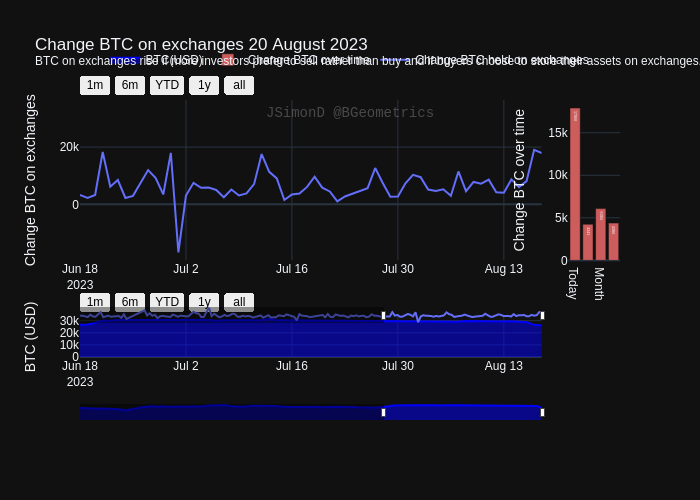
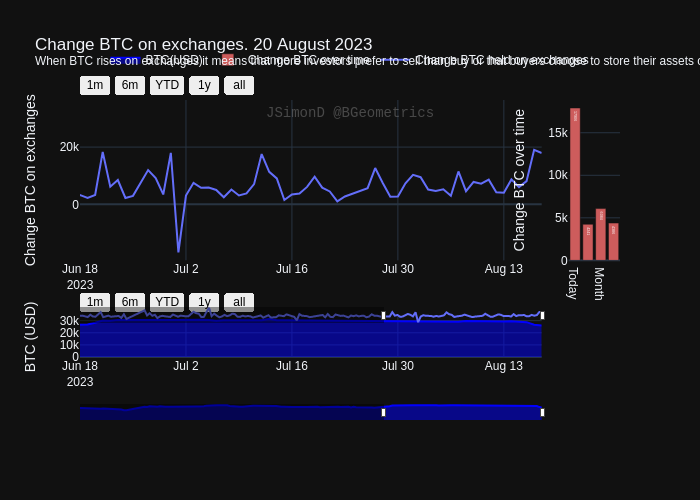
daily

Changed region(s): [[0.06, 0.06, 1.0, 0.15]]

diff --git a/reports/bitcoin_ex_change_held_g.html b/reports/bitcoin_ex_change_held_g.html
@@ -1,2 +1,2 @@
 <div>                        <script type="text/javascript">window.PlotlyConfig = {MathJaxConfig: 'local'};</script>
-        <script charset="utf-8" src="https://cdn.plot.ly/plotly-2.24.1.min.js"></script>                <div id="1b87324e-4afe-4bcd-ad03-5c2428e09499" class="plotly-graph-div" style="height:100%; width:100%;"></div>            <script type="text/javascript">                                    window.PLOTLYENV=window.PLOTLYENV || {};                                    if (document.getElementById("1b87324e-4afe-4bcd-ad03-5c2428e09499")) {                    Plotly.newPlot(                        "1b87324e-4afe-4bcd-ad03-5c2428e09499",                        [{"mode":"lines","name":"Change BTC held on exchanges","x":["2023-02-20","2023-02-21","2023-02-22","2023-02-23","2023-02-24","2023-02-25","2023-02-26","2023-02-27","2023-02-28","2023-03-01","2023-03-02","2023-03-03","2023-03-04","2023-03-05","2023-03-06","2023-03-07","2023-03-08","2023-03-09","2023-03-10","2023-03-17","2023-03-18","2023-03-19","2023-03-20","2023-03-21","2023-03-22","2023-03-23","2023-03-24","2023-03-25","2023-03-27","2023-03-28","2023-03-29","2023-03-30","2023-03-31","2023-04-01","2023-04-02","2023-04-03","2023-04-04","2023-04-05","2023-04-06","2023-04-07","2023-04-08","2023-04-09","2023-04-10","2023-04-11","2023-04-12","2023-04-13","2023-04-14","2023-04-15","2023-04-16","2023-04-17","2023-04-18","2023-04-19","2023-04-20","2023-04-21","2023-04-22","2023-04-23","2023-04-24","2023-04-25","2023-04-26","2023-04-27","2023-04-28","2023-04-29","2023-04-30","2023-05-01","2023-05-02","2023-05-03","2023-05-04","2023-05-05","2023-05-06","2023-05-07","2023-05-08","2023-05-09","2023-05-10","2023-05-11","2023-05-12","2023-05-13","2023-05-14","2023-05-15","2023-05-16","2023-05-17","2023-05-18","2023-05-19","2023-05-20","2023-05-21","2023-05-22","2023-05-23","2023-05-24","2023-05-25","2023-05-26","2023-05-27","2023-05-28","2023-05-29","2023-05-30","2023-05-31","2023-06-01","2023-06-02","2023-06-03","2023-06-04","2023-06-05","2023-06-06","2023-06-07","2023-06-08","2023-06-09","2023-06-10","2023-06-11","2023-06-12","2023-06-13","2023-06-14","2023-06-15","2023-06-16","2023-06-17","2023-06-18","2023-06-19","2023-06-20","2023-06-21","2023-06-22","2023-06-23","2023-06-24","2023-06-25","2023-06-26","2023-06-27","2023-06-28","2023-06-29","2023-06-30","2023-07-01","2023-07-02","2023-07-03","2023-07-04","2023-07-05","2023-07-06","2023-07-07","2023-07-08","2023-07-09","2023-07-10","2023-07-11","2023-07-12","2023-07-13","2023-07-14","2023-07-15","2023-07-16","2023-07-17","2023-07-18","2023-07-19","2023-07-20","2023-07-21","2023-07-22","2023-07-23","2023-07-26","2023-07-27","2023-07-28","2023-07-29","2023-07-30","2023-07-31","2023-08-01","2023-08-02","2023-08-03","2023-08-04","2023-08-05","2023-08-06","2023-08-07","2023-08-08","2023-08-09","2023-08-10","2023-08-11","2023-08-12","2023-08-13","2023-08-14","2023-08-15","2023-08-16","2023-08-17","2023-08-18"],"y":[5722,6270,3678,1191,9278,3140,2488,9933,18496,911,3222,6138,2284,4274,4302,4739,-1738,10979,-5412,24616,7012,14682,5628,9233,-2466,3772,5538,3812,1691,10042,4944,2303,6298,4383,3750,3758,13056,19636,14679,13132,1176,1925,18903,33641,4471,13088,6092,397,3604,8847,4406,7050,13028,11785,2746,1885,6012,3461,4828,4050,-483,1438,3326,6828,-787,2696,7541,-470,1444,901,7251,5849,4300,10582,7004,3240,1962,-10130,11378,6062,5989,4386,794,2156,4220,4142,7072,8436,449,11906,1941,906,10122,7111,5253,6405,3419,153,6607,4322,7146,3627,5376,5407,705,2944,10752,6174,6183,2463,1537,3260,2264,3255,18305,6183,8499,2217,2958,7362,11979,9200,3455,17972,-16766,3074,7505,5771,5839,5032,2454,5183,3117,3821,7059,17575,11353,9062,1524,3457,3766,6084,9663,5837,4511,1057,2735,5647,12674,7455,2624,2740,7363,10279,9471,5177,4633,5263,2965,11480,4582,7809,7237,8622,4241,4050,8706,6024,8109,19037,17906],"type":"scatter","xaxis":"x","yaxis":"y"},{"marker":{"color":"indianred"},"name":"Change BTC over time","text":["17906","4241","6084","4386"],"x":["Today","Week","Month","3 months","6 months"],"y":[17906,4241,6084,4386],"type":"bar","xaxis":"x2","yaxis":"y2"},{"fill":"tonexty","marker":{"color":"blue"},"mode":"lines","name":"BTC(USD)","x":["2023-02-20","2023-02-21","2023-02-22","2023-02-23","2023-02-24","2023-02-25","2023-02-26","2023-02-27","2023-02-28","2023-03-01","2023-03-02","2023-03-03","2023-03-04","2023-03-05","2023-03-06","2023-03-07","2023-03-08","2023-03-09","2023-03-10","2023-03-17","2023-03-18","2023-03-19","2023-03-20","2023-03-21","2023-03-22","2023-03-23","2023-03-24","2023-03-25","2023-03-27","2023-03-28","2023-03-29","2023-03-30","2023-03-31","2023-04-01","2023-04-02","2023-04-03","2023-04-04","2023-04-05","2023-04-06","2023-04-07","2023-04-08","2023-04-09","2023-04-10","2023-04-11","2023-04-12","2023-04-13","2023-04-14","2023-04-15","2023-04-16","2023-04-17","2023-04-18","2023-04-19","2023-04-20","2023-04-21","2023-04-22","2023-04-23","2023-04-24","2023-04-25","2023-04-26","2023-04-27","2023-04-28","2023-04-29","2023-04-30","2023-05-01","2023-05-02","2023-05-03","2023-05-04","2023-05-05","2023-05-06","2023-05-07","2023-05-08","2023-05-09","2023-05-10","2023-05-11","2023-05-12","2023-05-13","2023-05-14","2023-05-15","2023-05-16","2023-05-17","2023-05-18","2023-05-19","2023-05-20","2023-05-21","2023-05-22","2023-05-23","2023-05-24","2023-05-25","2023-05-26","2023-05-27","2023-05-28","2023-05-29","2023-05-30","2023-05-31","2023-06-01","2023-06-02","2023-06-03","2023-06-04","2023-06-05","2023-06-06","2023-06-07","2023-06-08","2023-06-09","2023-06-10","2023-06-11","2023-06-12","2023-06-13","2023-06-14","2023-06-15","2023-06-16","2023-06-17","2023-06-18","2023-06-19","2023-06-20","2023-06-21","2023-06-22","2023-06-23","2023-06-24","2023-06-25","2023-06-26","2023-06-27","2023-06-28","2023-06-29","2023-06-30","2023-07-01","2023-07-02","2023-07-03","2023-07-04","2023-07-05","2023-07-06","2023-07-07","2023-07-08","2023-07-09","2023-07-10","2023-07-11","2023-07-12","2023-07-13","2023-07-14","2023-07-15","2023-07-16","2023-07-17","2023-07-18","2023-07-19","2023-07-20","2023-07-21","2023-07-22","2023-07-23","2023-07-26","2023-07-27","2023-07-28","2023-07-29","2023-07-30","2023-07-31","2023-08-01","2023-08-02","2023-08-03","2023-08-04","2023-08-05","2023-08-06","2023-08-07","2023-08-08","2023-08-09","2023-08-10","2023-08-11","2023-08-12","2023-08-13","2023-08-14","2023-08-15","2023-08-16","2023-08-17","2023-08-18"],"y":[24797.8430359439,24400.3893898305,24163.7389812975,23910.0342104033,23175.8242036821,23159.8154403857,23542.0964281122,23504.1894178843,23145.9491277031,23610.6590902981,23470.0254815897,22350.0962340736,22334.2852638808,22419.8171390999,22414.7033056692,22174.6484725307,21701.3846227352,20349.8141732905,19951.37,27450.6282933957,26985.7359915254,28185.2043319696,27834.3361090006,28172.7950558153,27341.5571297487,28387.8897495617,27464.1249453536,27518.62,27154.9963702513,27283.9634029807,28389.2917784921,28021.5583009936,28514.6813062537,28494.5638863238,28161.9980362361,27850.9799436002,28113.9585187025,28190.3116063705,28049.0744763296,27936.8042609585,27964.0512498539,28357.8072703098,29687.5651846873,30247.0959193454,29913.0035463472,30370.82207218,30458.9700414962,30342.0591084161,30312.9308533022,29469.5050727645,30366.8723813559,28796.7440952659,28251.2763790181,27292.0211052016,27827.5475920514,27604.6855742256,27520.1996729982,28302.6942180012,28384.2340333139,29465.5514272355,29350.811886616,29221.5145075979,29362.0867974868,28114.9531873174,28690.5809959088,29045.0427735243,28855.8574465225,29552.9695236704,28899.4629602572,28761.738434249,27727.2854091175,27642.4281092928,27646.004902104,26986.271065751,26773.3443591467,26841.3982913501,26918.261597896,27231.6216052016,27025.7181864407,27401.0440610754,26843.2350938048,26889.503631502,27100.8582878434,26777.0977831677,26858.7370637054,27226.8558763881,26341.4306446522,26484.8359234366,26720.3838071303,26854.5403702513,28097.5211259497,27765.0728693746,27712.4915844535,27217.6832580362,26825.3713451198,27255.2279941555,27079.4084643483,27158.25456955,25785.8514842198,27213.7705187025,26339.5790292227,26521.693600526,26470.6775780245,25863.2138506721,25906.8281516657,25906.7519354179,25880.8599734074,25097.5853796026,25559.1433293396,26331.8200943892,26514.1713495032,26353.962682934,26778.0634415547,28305.4204573349,30099.5153509643,29952.5112866745,30638.3537644652,30549.0162872589,30467.4403705435,30255.8861241964,30656.2,30104.0432717709,30460.792978083,30484.503257744,30581.6889655172,30594.2164736996,31135.3575993571,30799.9474558738,30497.8221282876,29979.7298094681,30329.8829786674,30263.6196341321,30163.2210563998,30394.6555806546,30616.247094097,30385.6087852133,31434.7354704851,30310.6720204559,30290.8905958504,30249.7729658095,30143.7462744009,29835.7474076563,29913.0294646406,29805.6065707189,29919.6934921099,29726.0096271186,29882.43,29361.5917580362,29201.6865175336,29316.3130751023,29360.376179135,29262.8367337814,29219.8201887785,29499.5875385739,29143.1519620105,29192.3448617767,29057.2532437171,29053.0956975453,29048.0433275862,29164.3585873758,29779.511383986,29582.9442375804,29430.1599117475,29399.784739626,29415.733902104,29286.1176110462,29408.9717127411,29167.59721654,28754.2924079486,26660.5627264757,26037.3658474576],"type":"scatter","xaxis":"x3","yaxis":"y3"}],                        {"template":{"data":{"barpolar":[{"marker":{"line":{"color":"rgb(17,17,17)","width":0.5},"pattern":{"fillmode":"overlay","size":10,"solidity":0.2}},"type":"barpolar"}],"bar":[{"error_x":{"color":"#f2f5fa"},"error_y":{"color":"#f2f5fa"},"marker":{"line":{"color":"rgb(17,17,17)","width":0.5},"pattern":{"fillmode":"overlay","size":10,"solidity":0.2}},"type":"bar"}],"carpet":[{"aaxis":{"endlinecolor":"#A2B1C6","gridcolor":"#506784","linecolor":"#506784","minorgridcolor":"#506784","startlinecolor":"#A2B1C6"},"baxis":{"endlinecolor":"#A2B1C6","gridcolor":"#506784","linecolor":"#506784","minorgridcolor":"#506784","startlinecolor":"#A2B1C6"},"type":"carpet"}],"choropleth":[{"colorbar":{"outlinewidth":0,"ticks":""},"type":"choropleth"}],"contourcarpet":[{"colorbar":{"outlinewidth":0,"ticks":""},"type":"contourcarpet"}],"contour":[{"colorbar":{"outlinewidth":0,"ticks":""},"colorscale":[[0.0,"#0d0887"],[0.1111111111111111,"#46039f"],[0.2222222222222222,"#7201a8"],[0.3333333333333333,"#9c179e"],[0.4444444444444444,"#bd3786"],[0.5555555555555556,"#d8576b"],[0.6666666666666666,"#ed7953"],[0.7777777777777778,"#fb9f3a"],[0.8888888888888888,"#fdca26"],[1.0,"#f0f921"]],"type":"contour"}],"heatmapgl":[{"colorbar":{"outlinewidth":0,"ticks":""},"colorscale":[[0.0,"#0d0887"],[0.1111111111111111,"#46039f"],[0.2222222222222222,"#7201a8"],[0.3333333333333333,"#9c179e"],[0.4444444444444444,"#bd3786"],[0.5555555555555556,"#d8576b"],[0.6666666666666666,"#ed7953"],[0.7777777777777778,"#fb9f3a"],[0.8888888888888888,"#fdca26"],[1.0,"#f0f921"]],"type":"heatmapgl"}],"heatmap":[{"colorbar":{"outlinewidth":0,"ticks":""},"colorscale":[[0.0,"#0d0887"],[0.1111111111111111,"#46039f"],[0.2222222222222222,"#7201a8"],[0.3333333333333333,"#9c179e"],[0.4444444444444444,"#bd3786"],[0.5555555555555556,"#d8576b"],[0.6666666666666666,"#ed7953"],[0.7777777777777778,"#fb9f3a"],[0.8888888888888888,"#fdca26"],[1.0,"#f0f921"]],"type":"heatmap"}],"histogram2dcontour":[{"colorbar":{"outlinewidth":0,"ticks":""},"colorscale":[[0.0,"#0d0887"],[0.1111111111111111,"#46039f"],[0.2222222222222222,"#7201a8"],[0.3333333333333333,"#9c179e"],[0.4444444444444444,"#bd3786"],[0.5555555555555556,"#d8576b"],[0.6666666666666666,"#ed7953"],[0.7777777777777778,"#fb9f3a"],[0.8888888888888888,"#fdca26"],[1.0,"#f0f921"]],"type":"histogram2dcontour"}],"histogram2d":[{"colorbar":{"outlinewidth":0,"ticks":""},"colorscale":[[0.0,"#0d0887"],[0.1111111111111111,"#46039f"],[0.2222222222222222,"#7201a8"],[0.3333333333333333,"#9c179e"],[0.4444444444444444,"#bd3786"],[0.5555555555555556,"#d8576b"],[0.6666666666666666,"#ed7953"],[0.7777777777777778,"#fb9f3a"],[0.8888888888888888,"#fdca26"],[1.0,"#f0f921"]],"type":"histogram2d"}],"histogram":[{"marker":{"pattern":{"fillmode":"overlay","size":10,"solidity":0.2}},"type":"histogram"}],"mesh3d":[{"colorbar":{"outlinewidth":0,"ticks":""},"type":"mesh3d"}],"parcoords":[{"line":{"colorbar":{"outlinewidth":0,"ticks":""}},"type":"parcoords"}],"pie":[{"automargin":true,"type":"pie"}],"scatter3d":[{"line":{"colorbar":{"outlinewidth":0,"ticks":""}},"marker":{"colorbar":{"outlinewidth":0,"ticks":""}},"type":"scatter3d"}],"scattercarpet":[{"marker":{"colorbar":{"outlinewidth":0,"ticks":""}},"type":"scattercarpet"}],"scattergeo":[{"marker":{"colorbar":{"outlinewidth":0,"ticks":""}},"type":"scattergeo"}],"scattergl":[{"marker":{"line":{"color":"#283442"}},"type":"scattergl"}],"scattermapbox":[{"marker":{"colorbar":{"outlinewidth":0,"ticks":""}},"type":"scattermapbox"}],"scatterpolargl":[{"marker":{"colorbar":{"outlinewidth":0,"ticks":""}},"type":"scatterpolargl"}],"scatterpolar":[{"marker":{"colorbar":{"outlinewidth":0,"ticks":""}},"type":"scatterpolar"}],"scatter":[{"marker":{"line":{"color":"#283442"}},"type":"scatter"}],"scatterternary":[{"marker":{"colorbar":{"outlinewidth":0,"ticks":""}},"type":"scatterternary"}],"surface":[{"colorbar":{"outlinewidth":0,"ticks":""},"colorscale":[[0.0,"#0d0887"],[0.1111111111111111,"#46039f"],[0.2222222222222222,"#7201a8"],[0.3333333333333333,"#9c179e"],[0.4444444444444444,"#bd3786"],[0.5555555555555556,"#d8576b"],[0.6666666666666666,"#ed7953"],[0.7777777777777778,"#fb9f3a"],[0.8888888888888888,"#fdca26"],[1.0,"#f0f921"]],"type":"surface"}],"table":[{"cells":{"fill":{"color":"#506784"},"line":{"color":"rgb(17,17,17)"}},"header":{"fill":{"color":"#2a3f5f"},"line":{"color":"rgb(17,17,17)"}},"type":"table"}]},"layout":{"annotationdefaults":{"arrowcolor":"#f2f5fa","arrowhead":0,"arrowwidth":1},"autotypenumbers":"strict","coloraxis":{"colorbar":{"outlinewidth":0,"ticks":""}},"colorscale":{"diverging":[[0,"#8e0152"],[0.1,"#c51b7d"],[0.2,"#de77ae"],[0.3,"#f1b6da"],[0.4,"#fde0ef"],[0.5,"#f7f7f7"],[0.6,"#e6f5d0"],[0.7,"#b8e186"],[0.8,"#7fbc41"],[0.9,"#4d9221"],[1,"#276419"]],"sequential":[[0.0,"#0d0887"],[0.1111111111111111,"#46039f"],[0.2222222222222222,"#7201a8"],[0.3333333333333333,"#9c179e"],[0.4444444444444444,"#bd3786"],[0.5555555555555556,"#d8576b"],[0.6666666666666666,"#ed7953"],[0.7777777777777778,"#fb9f3a"],[0.8888888888888888,"#fdca26"],[1.0,"#f0f921"]],"sequentialminus":[[0.0,"#0d0887"],[0.1111111111111111,"#46039f"],[0.2222222222222222,"#7201a8"],[0.3333333333333333,"#9c179e"],[0.4444444444444444,"#bd3786"],[0.5555555555555556,"#d8576b"],[0.6666666666666666,"#ed7953"],[0.7777777777777778,"#fb9f3a"],[0.8888888888888888,"#fdca26"],[1.0,"#f0f921"]]},"colorway":["#636efa","#EF553B","#00cc96","#ab63fa","#FFA15A","#19d3f3","#FF6692","#B6E880","#FF97FF","#FECB52"],"font":{"color":"#f2f5fa"},"geo":{"bgcolor":"rgb(17,17,17)","lakecolor":"rgb(17,17,17)","landcolor":"rgb(17,17,17)","showlakes":true,"showland":true,"subunitcolor":"#506784"},"hoverlabel":{"align":"left"},"hovermode":"closest","mapbox":{"style":"dark"},"paper_bgcolor":"rgb(17,17,17)","plot_bgcolor":"rgb(17,17,17)","polar":{"angularaxis":{"gridcolor":"#506784","linecolor":"#506784","ticks":""},"bgcolor":"rgb(17,17,17)","radialaxis":{"gridcolor":"#506784","linecolor":"#506784","ticks":""}},"scene":{"xaxis":{"backgroundcolor":"rgb(17,17,17)","gridcolor":"#506784","gridwidth":2,"linecolor":"#506784","showbackground":true,"ticks":"","zerolinecolor":"#C8D4E3"},"yaxis":{"backgroundcolor":"rgb(17,17,17)","gridcolor":"#506784","gridwidth":2,"linecolor":"#506784","showbackground":true,"ticks":"","zerolinecolor":"#C8D4E3"},"zaxis":{"backgroundcolor":"rgb(17,17,17)","gridcolor":"#506784","gridwidth":2,"linecolor":"#506784","showbackground":true,"ticks":"","zerolinecolor":"#C8D4E3"}},"shapedefaults":{"line":{"color":"#f2f5fa"}},"sliderdefaults":{"bgcolor":"#C8D4E3","bordercolor":"rgb(17,17,17)","borderwidth":1,"tickwidth":0},"ternary":{"aaxis":{"gridcolor":"#506784","linecolor":"#506784","ticks":""},"baxis":{"gridcolor":"#506784","linecolor":"#506784","ticks":""},"bgcolor":"rgb(17,17,17)","caxis":{"gridcolor":"#506784","linecolor":"#506784","ticks":""}},"title":{"x":0.05},"updatemenudefaults":{"bgcolor":"#506784","borderwidth":0},"xaxis":{"automargin":true,"gridcolor":"#283442","linecolor":"#506784","ticks":"","title":{"standoff":15},"zerolinecolor":"#283442","zerolinewidth":2},"yaxis":{"automargin":true,"gridcolor":"#283442","linecolor":"#506784","ticks":"","title":{"standoff":15},"zerolinecolor":"#283442","zerolinewidth":2}}},"xaxis":{"anchor":"y","domain":[0.0,0.855],"rangeselector":{"font":{"color":"black"},"buttons":[{"count":1,"label":"1m","step":"month","stepmode":"backward"},{"count":6,"label":"6m","step":"month","stepmode":"backward"},{"count":1,"label":"YTD","step":"year","stepmode":"todate"},{"count":1,"label":"1y","step":"year","stepmode":"backward"},{"step":"all"}]},"rangeslider":{"visible":true,"thickness":0.05},"range":["2023-06-18","2023-08-18"]},"yaxis":{"anchor":"x","domain":[0.376,1.0],"title":{"text":"Change BTC on exchanges"},"side":"left"},"xaxis2":{"anchor":"y2","domain":[0.905,1.0]},"yaxis2":{"anchor":"x2","domain":[0.376,1.0],"title":{"text":"Change BTC over time"},"side":"left"},"xaxis3":{"anchor":"y3","domain":[0.0,0.855],"rangeselector":{"font":{"color":"black"},"buttons":[{"count":1,"label":"1m","step":"month","stepmode":"backward"},{"count":6,"label":"6m","step":"month","stepmode":"backward"},{"count":1,"label":"YTD","step":"year","stepmode":"todate"},{"count":1,"label":"1y","step":"year","stepmode":"backward"},{"step":"all"}]},"rangeslider":{"visible":true,"thickness":0.05},"range":["2023-06-18","2023-08-18"]},"yaxis3":{"anchor":"x3","domain":[0.0,0.15600000000000003],"title":{"text":"BTC (USD)"},"side":"left"},"xaxis4":{"anchor":"y4","domain":[0.905,1.0]},"yaxis4":{"anchor":"x4","domain":[0.0,0.15600000000000003]},"images":[{"sizex":0.15,"sizey":0.15,"source":"https:\u002f\u002fbgeometrics.github.io\u002fLogo_BGeometrics.png","x":1,"xanchor":"right","xref":"paper","y":1.05,"yanchor":"bottom","yref":"paper"}],"annotations":[{"font":{"color":"grey","family":"Courier New, monospace","size":14},"opacity":0.5,"showarrow":false,"text":"\u003ca href='https:\u002f\u002fbgeometrics.com'\u003eJSimonD @BGeometrics\u003c\u002fa\u003e","x":0.5,"xanchor":"center","xref":"paper","y":0.95,"yanchor":"middle","yref":"paper"}],"legend":{"orientation":"h","x":0.5,"xanchor":"center"},"title":{"text":"Change BTC on exchanges 20 August 2023\u003cbr\u003e\u003csup\u003eBTC on exchanges rise if more investors prefer to sell rather than buy and if buyers choose to store their assets on exchanges.\u003c\u002fsup\u003e"},"plot_bgcolor":"rgba(0, 0, 0, 0)"},                        {"responsive": true}                    )                };                            </script>        </div>
+        <script charset="utf-8" src="https://cdn.plot.ly/plotly-2.24.1.min.js"></script>                <div id="5bc4204b-e6eb-4f50-a972-7c8aba7d055e" class="plotly-graph-div" style="height:100%; width:100%;"></div>            <script type="text/javascript">                                    window.PLOTLYENV=window.PLOTLYENV || {};                                    if (document.getElementById("5bc4204b-e6eb-4f50-a972-7c8aba7d055e")) {                    Plotly.newPlot(                        "5bc4204b-e6eb-4f50-a972-7c8aba7d055e",                        [{"mode":"lines","name":"Change BTC held on exchanges","x":["2023-02-20","2023-02-21","2023-02-22","2023-02-23","2023-02-24","2023-02-25","2023-02-26","2023-02-27","2023-02-28","2023-03-01","2023-03-02","2023-03-03","2023-03-04","2023-03-05","2023-03-06","2023-03-07","2023-03-08","2023-03-09","2023-03-10","2023-03-17","2023-03-18","2023-03-19","2023-03-20","2023-03-21","2023-03-22","2023-03-23","2023-03-24","2023-03-25","2023-03-27","2023-03-28","2023-03-29","2023-03-30","2023-03-31","2023-04-01","2023-04-02","2023-04-03","2023-04-04","2023-04-05","2023-04-06","2023-04-07","2023-04-08","2023-04-09","2023-04-10","2023-04-11","2023-04-12","2023-04-13","2023-04-14","2023-04-15","2023-04-16","2023-04-17","2023-04-18","2023-04-19","2023-04-20","2023-04-21","2023-04-22","2023-04-23","2023-04-24","2023-04-25","2023-04-26","2023-04-27","2023-04-28","2023-04-29","2023-04-30","2023-05-01","2023-05-02","2023-05-03","2023-05-04","2023-05-05","2023-05-06","2023-05-07","2023-05-08","2023-05-09","2023-05-10","2023-05-11","2023-05-12","2023-05-13","2023-05-14","2023-05-15","2023-05-16","2023-05-17","2023-05-18","2023-05-19","2023-05-20","2023-05-21","2023-05-22","2023-05-23","2023-05-24","2023-05-25","2023-05-26","2023-05-27","2023-05-28","2023-05-29","2023-05-30","2023-05-31","2023-06-01","2023-06-02","2023-06-03","2023-06-04","2023-06-05","2023-06-06","2023-06-07","2023-06-08","2023-06-09","2023-06-10","2023-06-11","2023-06-12","2023-06-13","2023-06-14","2023-06-15","2023-06-16","2023-06-17","2023-06-18","2023-06-19","2023-06-20","2023-06-21","2023-06-22","2023-06-23","2023-06-24","2023-06-25","2023-06-26","2023-06-27","2023-06-28","2023-06-29","2023-06-30","2023-07-01","2023-07-02","2023-07-03","2023-07-04","2023-07-05","2023-07-06","2023-07-07","2023-07-08","2023-07-09","2023-07-10","2023-07-11","2023-07-12","2023-07-13","2023-07-14","2023-07-15","2023-07-16","2023-07-17","2023-07-18","2023-07-19","2023-07-20","2023-07-21","2023-07-22","2023-07-23","2023-07-26","2023-07-27","2023-07-28","2023-07-29","2023-07-30","2023-07-31","2023-08-01","2023-08-02","2023-08-03","2023-08-04","2023-08-05","2023-08-06","2023-08-07","2023-08-08","2023-08-09","2023-08-10","2023-08-11","2023-08-12","2023-08-13","2023-08-14","2023-08-15","2023-08-16","2023-08-17","2023-08-18"],"y":[5722,6270,3678,1191,9278,3140,2488,9933,18496,911,3222,6138,2284,4274,4302,4739,-1738,10979,-5412,24616,7012,14682,5628,9233,-2466,3772,5538,3812,1691,10042,4944,2303,6298,4383,3750,3758,13056,19636,14679,13132,1176,1925,18903,33641,4471,13088,6092,397,3604,8847,4406,7050,13028,11785,2746,1885,6012,3461,4828,4050,-483,1438,3326,6828,-787,2696,7541,-470,1444,901,7251,5849,4300,10582,7004,3240,1962,-10130,11378,6062,5989,4386,794,2156,4220,4142,7072,8436,449,11906,1941,906,10122,7111,5253,6405,3419,153,6607,4322,7146,3627,5376,5407,705,2944,10752,6174,6183,2463,1537,3260,2264,3255,18305,6183,8499,2217,2958,7362,11979,9200,3455,17972,-16766,3074,7505,5771,5839,5032,2454,5183,3117,3821,7059,17575,11353,9062,1524,3457,3766,6084,9663,5837,4511,1057,2735,5647,12674,7455,2624,2740,7363,10279,9471,5177,4633,5263,2965,11480,4582,7809,7237,8622,4241,4050,8706,6024,8109,19037,17906],"type":"scatter","xaxis":"x","yaxis":"y"},{"marker":{"color":"indianred"},"name":"Change BTC over time","text":["17906","4241","6084","4386"],"x":["Today","Week","Month","3 months","6 months"],"y":[17906,4241,6084,4386],"type":"bar","xaxis":"x2","yaxis":"y2"},{"fill":"tonexty","marker":{"color":"blue"},"mode":"lines","name":"BTC(USD)","x":["2023-02-20","2023-02-21","2023-02-22","2023-02-23","2023-02-24","2023-02-25","2023-02-26","2023-02-27","2023-02-28","2023-03-01","2023-03-02","2023-03-03","2023-03-04","2023-03-05","2023-03-06","2023-03-07","2023-03-08","2023-03-09","2023-03-10","2023-03-17","2023-03-18","2023-03-19","2023-03-20","2023-03-21","2023-03-22","2023-03-23","2023-03-24","2023-03-25","2023-03-27","2023-03-28","2023-03-29","2023-03-30","2023-03-31","2023-04-01","2023-04-02","2023-04-03","2023-04-04","2023-04-05","2023-04-06","2023-04-07","2023-04-08","2023-04-09","2023-04-10","2023-04-11","2023-04-12","2023-04-13","2023-04-14","2023-04-15","2023-04-16","2023-04-17","2023-04-18","2023-04-19","2023-04-20","2023-04-21","2023-04-22","2023-04-23","2023-04-24","2023-04-25","2023-04-26","2023-04-27","2023-04-28","2023-04-29","2023-04-30","2023-05-01","2023-05-02","2023-05-03","2023-05-04","2023-05-05","2023-05-06","2023-05-07","2023-05-08","2023-05-09","2023-05-10","2023-05-11","2023-05-12","2023-05-13","2023-05-14","2023-05-15","2023-05-16","2023-05-17","2023-05-18","2023-05-19","2023-05-20","2023-05-21","2023-05-22","2023-05-23","2023-05-24","2023-05-25","2023-05-26","2023-05-27","2023-05-28","2023-05-29","2023-05-30","2023-05-31","2023-06-01","2023-06-02","2023-06-03","2023-06-04","2023-06-05","2023-06-06","2023-06-07","2023-06-08","2023-06-09","2023-06-10","2023-06-11","2023-06-12","2023-06-13","2023-06-14","2023-06-15","2023-06-16","2023-06-17","2023-06-18","2023-06-19","2023-06-20","2023-06-21","2023-06-22","2023-06-23","2023-06-24","2023-06-25","2023-06-26","2023-06-27","2023-06-28","2023-06-29","2023-06-30","2023-07-01","2023-07-02","2023-07-03","2023-07-04","2023-07-05","2023-07-06","2023-07-07","2023-07-08","2023-07-09","2023-07-10","2023-07-11","2023-07-12","2023-07-13","2023-07-14","2023-07-15","2023-07-16","2023-07-17","2023-07-18","2023-07-19","2023-07-20","2023-07-21","2023-07-22","2023-07-23","2023-07-26","2023-07-27","2023-07-28","2023-07-29","2023-07-30","2023-07-31","2023-08-01","2023-08-02","2023-08-03","2023-08-04","2023-08-05","2023-08-06","2023-08-07","2023-08-08","2023-08-09","2023-08-10","2023-08-11","2023-08-12","2023-08-13","2023-08-14","2023-08-15","2023-08-16","2023-08-17","2023-08-18"],"y":[24797.8430359439,24400.3893898305,24163.7389812975,23910.0342104033,23175.8242036821,23159.8154403857,23542.0964281122,23504.1894178843,23145.9491277031,23610.6590902981,23470.0254815897,22350.0962340736,22334.2852638808,22419.8171390999,22414.7033056692,22174.6484725307,21701.3846227352,20349.8141732905,19951.37,27450.6282933957,26985.7359915254,28185.2043319696,27834.3361090006,28172.7950558153,27341.5571297487,28387.8897495617,27464.1249453536,27518.62,27154.9963702513,27283.9634029807,28389.2917784921,28021.5583009936,28514.6813062537,28494.5638863238,28161.9980362361,27850.9799436002,28113.9585187025,28190.3116063705,28049.0744763296,27936.8042609585,27964.0512498539,28357.8072703098,29687.5651846873,30247.0959193454,29913.0035463472,30370.82207218,30458.9700414962,30342.0591084161,30312.9308533022,29469.5050727645,30366.8723813559,28796.7440952659,28251.2763790181,27292.0211052016,27827.5475920514,27604.6855742256,27520.1996729982,28302.6942180012,28384.2340333139,29465.5514272355,29350.811886616,29221.5145075979,29362.0867974868,28114.9531873174,28690.5809959088,29045.0427735243,28855.8574465225,29552.9695236704,28899.4629602572,28761.738434249,27727.2854091175,27642.4281092928,27646.004902104,26986.271065751,26773.3443591467,26841.3982913501,26918.261597896,27231.6216052016,27025.7181864407,27401.0440610754,26843.2350938048,26889.503631502,27100.8582878434,26777.0977831677,26858.7370637054,27226.8558763881,26341.4306446522,26484.8359234366,26720.3838071303,26854.5403702513,28097.5211259497,27765.0728693746,27712.4915844535,27217.6832580362,26825.3713451198,27255.2279941555,27079.4084643483,27158.25456955,25785.8514842198,27213.7705187025,26339.5790292227,26521.693600526,26470.6775780245,25863.2138506721,25906.8281516657,25906.7519354179,25880.8599734074,25097.5853796026,25559.1433293396,26331.8200943892,26514.1713495032,26353.962682934,26778.0634415547,28305.4204573349,30099.5153509643,29952.5112866745,30638.3537644652,30549.0162872589,30467.4403705435,30255.8861241964,30656.2,30104.0432717709,30460.792978083,30484.503257744,30581.6889655172,30594.2164736996,31135.3575993571,30799.9474558738,30497.8221282876,29979.7298094681,30329.8829786674,30263.6196341321,30163.2210563998,30394.6555806546,30616.247094097,30385.6087852133,31434.7354704851,30310.6720204559,30290.8905958504,30249.7729658095,30143.7462744009,29835.7474076563,29913.0294646406,29805.6065707189,29919.6934921099,29726.0096271186,29882.43,29361.5917580362,29201.6865175336,29316.3130751023,29360.376179135,29262.8367337814,29219.8201887785,29499.5875385739,29143.1519620105,29192.3448617767,29057.2532437171,29053.0956975453,29048.0433275862,29164.3585873758,29779.511383986,29582.9442375804,29430.1599117475,29399.784739626,29415.733902104,29286.1176110462,29408.9717127411,29167.59721654,28754.2924079486,26660.5627264757,26037.3658474576],"type":"scatter","xaxis":"x3","yaxis":"y3"}],                        {"template":{"data":{"barpolar":[{"marker":{"line":{"color":"rgb(17,17,17)","width":0.5},"pattern":{"fillmode":"overlay","size":10,"solidity":0.2}},"type":"barpolar"}],"bar":[{"error_x":{"color":"#f2f5fa"},"error_y":{"color":"#f2f5fa"},"marker":{"line":{"color":"rgb(17,17,17)","width":0.5},"pattern":{"fillmode":"overlay","size":10,"solidity":0.2}},"type":"bar"}],"carpet":[{"aaxis":{"endlinecolor":"#A2B1C6","gridcolor":"#506784","linecolor":"#506784","minorgridcolor":"#506784","startlinecolor":"#A2B1C6"},"baxis":{"endlinecolor":"#A2B1C6","gridcolor":"#506784","linecolor":"#506784","minorgridcolor":"#506784","startlinecolor":"#A2B1C6"},"type":"carpet"}],"choropleth":[{"colorbar":{"outlinewidth":0,"ticks":""},"type":"choropleth"}],"contourcarpet":[{"colorbar":{"outlinewidth":0,"ticks":""},"type":"contourcarpet"}],"contour":[{"colorbar":{"outlinewidth":0,"ticks":""},"colorscale":[[0.0,"#0d0887"],[0.1111111111111111,"#46039f"],[0.2222222222222222,"#7201a8"],[0.3333333333333333,"#9c179e"],[0.4444444444444444,"#bd3786"],[0.5555555555555556,"#d8576b"],[0.6666666666666666,"#ed7953"],[0.7777777777777778,"#fb9f3a"],[0.8888888888888888,"#fdca26"],[1.0,"#f0f921"]],"type":"contour"}],"heatmapgl":[{"colorbar":{"outlinewidth":0,"ticks":""},"colorscale":[[0.0,"#0d0887"],[0.1111111111111111,"#46039f"],[0.2222222222222222,"#7201a8"],[0.3333333333333333,"#9c179e"],[0.4444444444444444,"#bd3786"],[0.5555555555555556,"#d8576b"],[0.6666666666666666,"#ed7953"],[0.7777777777777778,"#fb9f3a"],[0.8888888888888888,"#fdca26"],[1.0,"#f0f921"]],"type":"heatmapgl"}],"heatmap":[{"colorbar":{"outlinewidth":0,"ticks":""},"colorscale":[[0.0,"#0d0887"],[0.1111111111111111,"#46039f"],[0.2222222222222222,"#7201a8"],[0.3333333333333333,"#9c179e"],[0.4444444444444444,"#bd3786"],[0.5555555555555556,"#d8576b"],[0.6666666666666666,"#ed7953"],[0.7777777777777778,"#fb9f3a"],[0.8888888888888888,"#fdca26"],[1.0,"#f0f921"]],"type":"heatmap"}],"histogram2dcontour":[{"colorbar":{"outlinewidth":0,"ticks":""},"colorscale":[[0.0,"#0d0887"],[0.1111111111111111,"#46039f"],[0.2222222222222222,"#7201a8"],[0.3333333333333333,"#9c179e"],[0.4444444444444444,"#bd3786"],[0.5555555555555556,"#d8576b"],[0.6666666666666666,"#ed7953"],[0.7777777777777778,"#fb9f3a"],[0.8888888888888888,"#fdca26"],[1.0,"#f0f921"]],"type":"histogram2dcontour"}],"histogram2d":[{"colorbar":{"outlinewidth":0,"ticks":""},"colorscale":[[0.0,"#0d0887"],[0.1111111111111111,"#46039f"],[0.2222222222222222,"#7201a8"],[0.3333333333333333,"#9c179e"],[0.4444444444444444,"#bd3786"],[0.5555555555555556,"#d8576b"],[0.6666666666666666,"#ed7953"],[0.7777777777777778,"#fb9f3a"],[0.8888888888888888,"#fdca26"],[1.0,"#f0f921"]],"type":"histogram2d"}],"histogram":[{"marker":{"pattern":{"fillmode":"overlay","size":10,"solidity":0.2}},"type":"histogram"}],"mesh3d":[{"colorbar":{"outlinewidth":0,"ticks":""},"type":"mesh3d"}],"parcoords":[{"line":{"colorbar":{"outlinewidth":0,"ticks":""}},"type":"parcoords"}],"pie":[{"automargin":true,"type":"pie"}],"scatter3d":[{"line":{"colorbar":{"outlinewidth":0,"ticks":""}},"marker":{"colorbar":{"outlinewidth":0,"ticks":""}},"type":"scatter3d"}],"scattercarpet":[{"marker":{"colorbar":{"outlinewidth":0,"ticks":""}},"type":"scattercarpet"}],"scattergeo":[{"marker":{"colorbar":{"outlinewidth":0,"ticks":""}},"type":"scattergeo"}],"scattergl":[{"marker":{"line":{"color":"#283442"}},"type":"scattergl"}],"scattermapbox":[{"marker":{"colorbar":{"outlinewidth":0,"ticks":""}},"type":"scattermapbox"}],"scatterpolargl":[{"marker":{"colorbar":{"outlinewidth":0,"ticks":""}},"type":"scatterpolargl"}],"scatterpolar":[{"marker":{"colorbar":{"outlinewidth":0,"ticks":""}},"type":"scatterpolar"}],"scatter":[{"marker":{"line":{"color":"#283442"}},"type":"scatter"}],"scatterternary":[{"marker":{"colorbar":{"outlinewidth":0,"ticks":""}},"type":"scatterternary"}],"surface":[{"colorbar":{"outlinewidth":0,"ticks":""},"colorscale":[[0.0,"#0d0887"],[0.1111111111111111,"#46039f"],[0.2222222222222222,"#7201a8"],[0.3333333333333333,"#9c179e"],[0.4444444444444444,"#bd3786"],[0.5555555555555556,"#d8576b"],[0.6666666666666666,"#ed7953"],[0.7777777777777778,"#fb9f3a"],[0.8888888888888888,"#fdca26"],[1.0,"#f0f921"]],"type":"surface"}],"table":[{"cells":{"fill":{"color":"#506784"},"line":{"color":"rgb(17,17,17)"}},"header":{"fill":{"color":"#2a3f5f"},"line":{"color":"rgb(17,17,17)"}},"type":"table"}]},"layout":{"annotationdefaults":{"arrowcolor":"#f2f5fa","arrowhead":0,"arrowwidth":1},"autotypenumbers":"strict","coloraxis":{"colorbar":{"outlinewidth":0,"ticks":""}},"colorscale":{"diverging":[[0,"#8e0152"],[0.1,"#c51b7d"],[0.2,"#de77ae"],[0.3,"#f1b6da"],[0.4,"#fde0ef"],[0.5,"#f7f7f7"],[0.6,"#e6f5d0"],[0.7,"#b8e186"],[0.8,"#7fbc41"],[0.9,"#4d9221"],[1,"#276419"]],"sequential":[[0.0,"#0d0887"],[0.1111111111111111,"#46039f"],[0.2222222222222222,"#7201a8"],[0.3333333333333333,"#9c179e"],[0.4444444444444444,"#bd3786"],[0.5555555555555556,"#d8576b"],[0.6666666666666666,"#ed7953"],[0.7777777777777778,"#fb9f3a"],[0.8888888888888888,"#fdca26"],[1.0,"#f0f921"]],"sequentialminus":[[0.0,"#0d0887"],[0.1111111111111111,"#46039f"],[0.2222222222222222,"#7201a8"],[0.3333333333333333,"#9c179e"],[0.4444444444444444,"#bd3786"],[0.5555555555555556,"#d8576b"],[0.6666666666666666,"#ed7953"],[0.7777777777777778,"#fb9f3a"],[0.8888888888888888,"#fdca26"],[1.0,"#f0f921"]]},"colorway":["#636efa","#EF553B","#00cc96","#ab63fa","#FFA15A","#19d3f3","#FF6692","#B6E880","#FF97FF","#FECB52"],"font":{"color":"#f2f5fa"},"geo":{"bgcolor":"rgb(17,17,17)","lakecolor":"rgb(17,17,17)","landcolor":"rgb(17,17,17)","showlakes":true,"showland":true,"subunitcolor":"#506784"},"hoverlabel":{"align":"left"},"hovermode":"closest","mapbox":{"style":"dark"},"paper_bgcolor":"rgb(17,17,17)","plot_bgcolor":"rgb(17,17,17)","polar":{"angularaxis":{"gridcolor":"#506784","linecolor":"#506784","ticks":""},"bgcolor":"rgb(17,17,17)","radialaxis":{"gridcolor":"#506784","linecolor":"#506784","ticks":""}},"scene":{"xaxis":{"backgroundcolor":"rgb(17,17,17)","gridcolor":"#506784","gridwidth":2,"linecolor":"#506784","showbackground":true,"ticks":"","zerolinecolor":"#C8D4E3"},"yaxis":{"backgroundcolor":"rgb(17,17,17)","gridcolor":"#506784","gridwidth":2,"linecolor":"#506784","showbackground":true,"ticks":"","zerolinecolor":"#C8D4E3"},"zaxis":{"backgroundcolor":"rgb(17,17,17)","gridcolor":"#506784","gridwidth":2,"linecolor":"#506784","showbackground":true,"ticks":"","zerolinecolor":"#C8D4E3"}},"shapedefaults":{"line":{"color":"#f2f5fa"}},"sliderdefaults":{"bgcolor":"#C8D4E3","bordercolor":"rgb(17,17,17)","borderwidth":1,"tickwidth":0},"ternary":{"aaxis":{"gridcolor":"#506784","linecolor":"#506784","ticks":""},"baxis":{"gridcolor":"#506784","linecolor":"#506784","ticks":""},"bgcolor":"rgb(17,17,17)","caxis":{"gridcolor":"#506784","linecolor":"#506784","ticks":""}},"title":{"x":0.05},"updatemenudefaults":{"bgcolor":"#506784","borderwidth":0},"xaxis":{"automargin":true,"gridcolor":"#283442","linecolor":"#506784","ticks":"","title":{"standoff":15},"zerolinecolor":"#283442","zerolinewidth":2},"yaxis":{"automargin":true,"gridcolor":"#283442","linecolor":"#506784","ticks":"","title":{"standoff":15},"zerolinecolor":"#283442","zerolinewidth":2}}},"xaxis":{"anchor":"y","domain":[0.0,0.855],"rangeselector":{"font":{"color":"black"},"buttons":[{"count":1,"label":"1m","step":"month","stepmode":"backward"},{"count":6,"label":"6m","step":"month","stepmode":"backward"},{"count":1,"label":"YTD","step":"year","stepmode":"todate"},{"count":1,"label":"1y","step":"year","stepmode":"backward"},{"step":"all"}]},"rangeslider":{"visible":true,"thickness":0.05},"range":["2023-06-18","2023-08-18"]},"yaxis":{"anchor":"x","domain":[0.376,1.0],"title":{"text":"Change BTC on exchanges"},"side":"left"},"xaxis2":{"anchor":"y2","domain":[0.905,1.0]},"yaxis2":{"anchor":"x2","domain":[0.376,1.0],"title":{"text":"Change BTC over time"},"side":"left"},"xaxis3":{"anchor":"y3","domain":[0.0,0.855],"rangeselector":{"font":{"color":"black"},"buttons":[{"count":1,"label":"1m","step":"month","stepmode":"backward"},{"count":6,"label":"6m","step":"month","stepmode":"backward"},{"count":1,"label":"YTD","step":"year","stepmode":"todate"},{"count":1,"label":"1y","step":"year","stepmode":"backward"},{"step":"all"}]},"rangeslider":{"visible":true,"thickness":0.05},"range":["2023-06-18","2023-08-18"]},"yaxis3":{"anchor":"x3","domain":[0.0,0.15600000000000003],"title":{"text":"BTC (USD)"},"side":"left"},"xaxis4":{"anchor":"y4","domain":[0.905,1.0]},"yaxis4":{"anchor":"x4","domain":[0.0,0.15600000000000003]},"images":[{"sizex":0.15,"sizey":0.15,"source":"https:\u002f\u002fbgeometrics.github.io\u002fLogo_BGeometrics.png","x":1,"xanchor":"right","xref":"paper","y":1.05,"yanchor":"bottom","yref":"paper"}],"annotations":[{"font":{"color":"grey","family":"Courier New, monospace","size":14},"opacity":0.5,"showarrow":false,"text":"\u003ca href='https:\u002f\u002fbgeometrics.com'\u003eJSimonD @BGeometrics\u003c\u002fa\u003e","x":0.5,"xanchor":"center","xref":"paper","y":0.95,"yanchor":"middle","yref":"paper"}],"legend":{"orientation":"h","x":0.5,"xanchor":"center"},"title":{"text":"Change BTC on exchanges. 20 August 2023\u003cbr\u003e\u003csup\u003eWhen BTC rises on exchanges it means that more investors prefer to sell than buy or that buyers choose to store their assets on exchanges.\u003c\u002fsup\u003e"},"plot_bgcolor":"rgba(0, 0, 0, 0)"},                        {"responsive": true}                    )                };                            </script>        </div>
